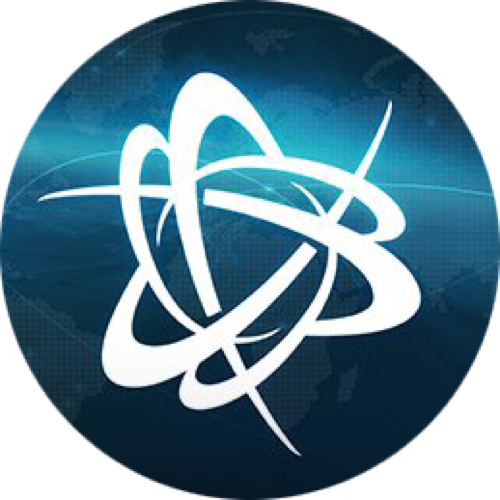
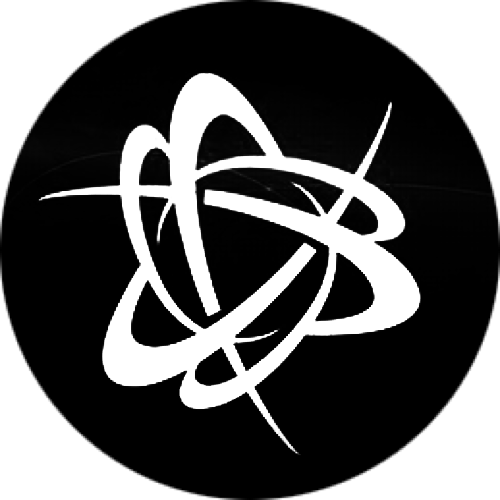
Change font and blacken images

diff --git a/index.html b/index.html
@@ -15,14 +15,14 @@
                     <img class="media-object" src="content/myFace.png" alt="missing-img">
                 </div>
                 <div class="media-body">
-                    <h1 class="media-heading">Ben's Corner</br><small>StarCraft and Code</small></h1>
+                    <h1 class="media-heading serif">Ben's Corner</br><small>StarCraft and Code</small></h1>
                 </div>
             </div>
         </div>
         <div class="row">
             <div class="col-sm-6">
                 <div class="row">
-                    <h2 class="col-sm-10">Code</h2>
+                    <h2 class="col-sm-10 serif">Code</h2>
                 </div>
                 <div class="row">       
                     <div class="col-sm-10">
@@ -67,7 +67,7 @@
             </div>
             <div class="col-sm-6">
                 <div class="row">
-                    <h2 class="col-sm-10">Social</h2>
+                    <h2 class="col-sm-10 serif">Social</h2>
                 </div>
                 <div class="row">
                     <div class="col-sm-10">
@@ -97,7 +97,7 @@
                         </div>
                         <div class="media">
                             <div class="media-left">
-                                <img src="content/discord.svg" alt="missing-img" class="img-responsive img-rounded media-object">
+                                <img src="content/discord.png" alt="missing-img" class="img-responsive img-rounded media-object">
                             </div>
                             <div class="media-body">
                                 <h4 class="media-heading">Discord</br>
@@ -120,7 +120,7 @@
             </div>
             <div class="col-sm-6">
                 <div class="row">
-                    <h2 class="col-sm-10">Spotify Playlists</h2>
+                    <h2 class="col-sm-10 serif">Spotify Playlists</h2>
                 </div>
                 <div class="row">
                     <div class="col-sm-10">
@@ -153,7 +153,7 @@
             </div>
             <div class="col-sm-6">
                 <div class="row">
-                    <h2 class="col-sm-10">Other</h2>
+                    <h2 class="col-sm-10 serif">Other</h2>
                 </div>
                 <div class="row">
                     <div class="col-sm-10">

diff --git a/content/main.css b/content/main.css
@@ -13,7 +13,7 @@
 
 h2 {
     width: 100%;
-    border-bottom: solid 2px darkblue;
+    border-bottom: solid 1px #ccc;
     border-radius: 0px 20px 20px 0px;
     padding-bottom: 5px;
     margin-left: 20px;
@@ -21,10 +21,21 @@ h2 {
 
 .page-header {
     width: 100%;
-    border-bottom: solid 2px darkblue;
-    border-radius: 0px 0px 50px 50px;
+    border-bottom: solid 1px #ccc;
 }
 
 .media {
     margin: 0 0 0 25;
+}
+
+.serif {
+    font-family: Garamond, Georgia, serif
+}
+
+.sans-serif {
+    font-family: Roboto, Arial, sans-serif;
+}
+
+.light-font {
+    font-weight: 300;
 }
